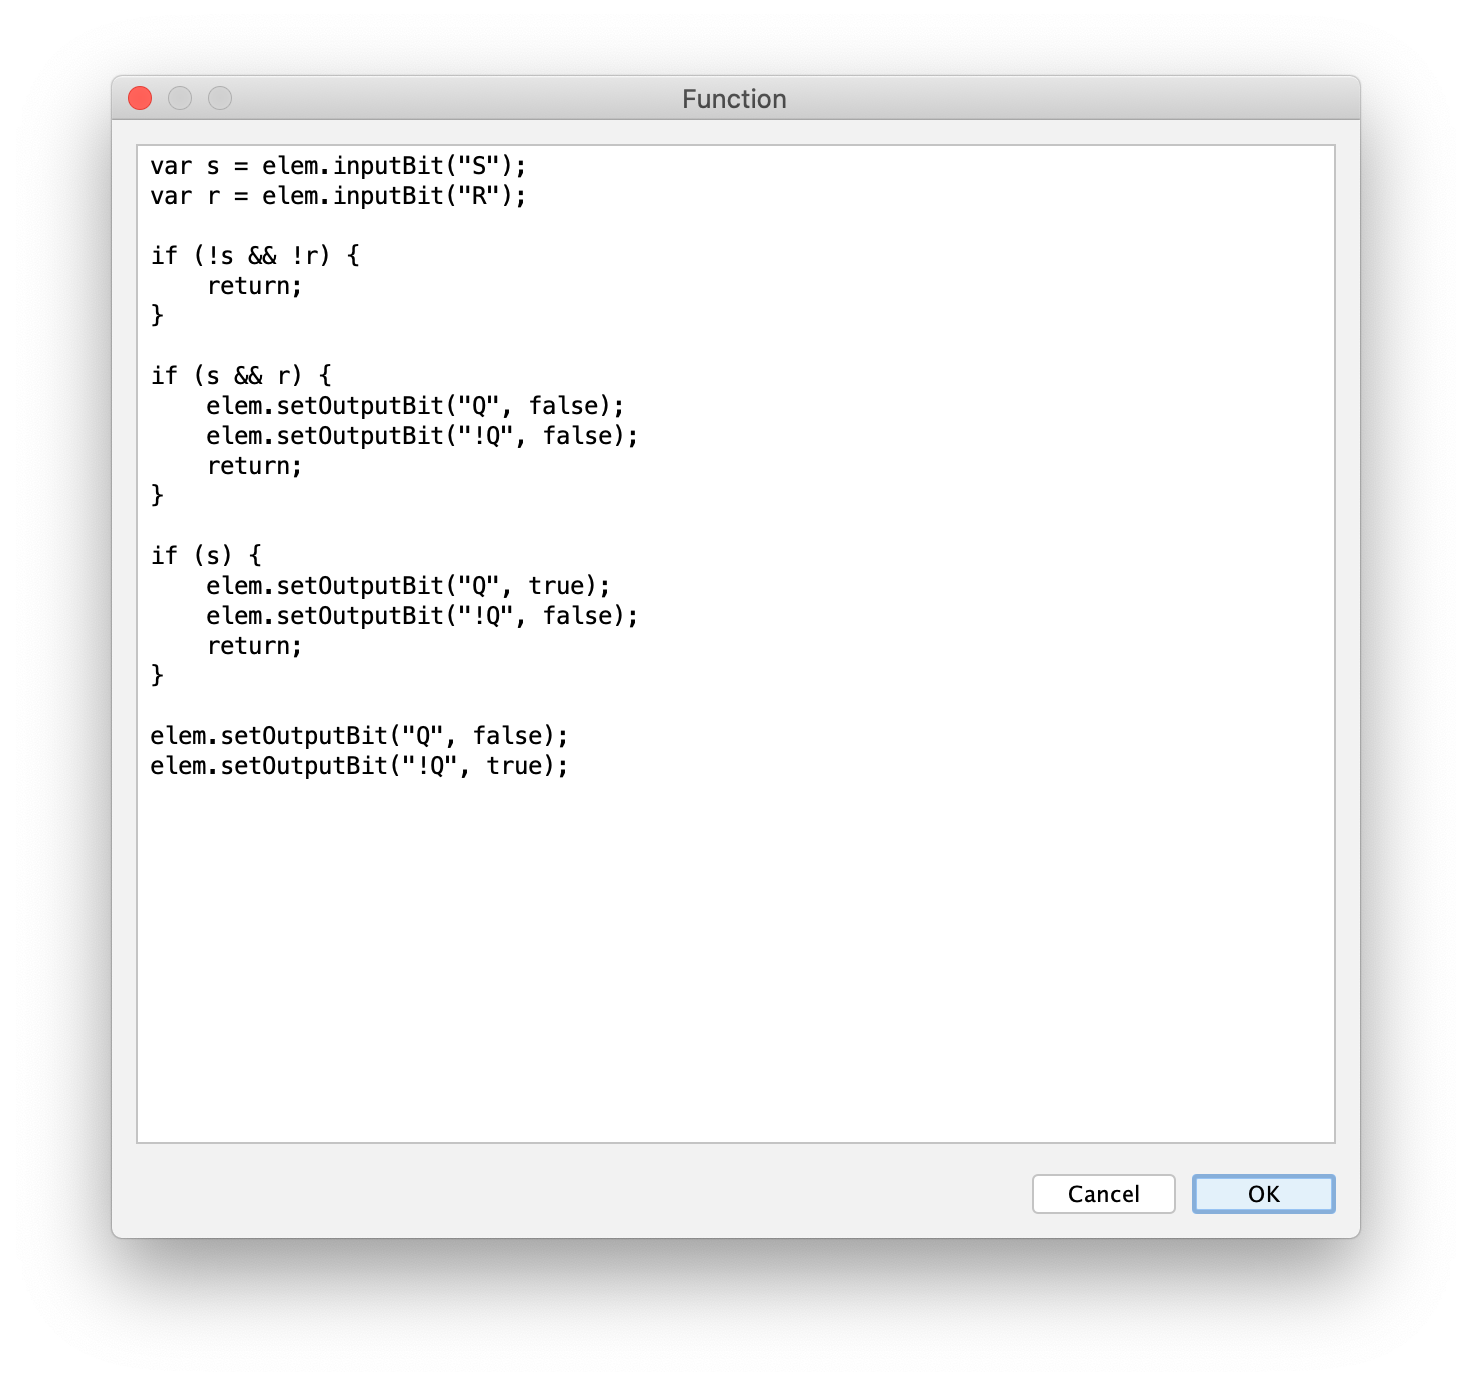
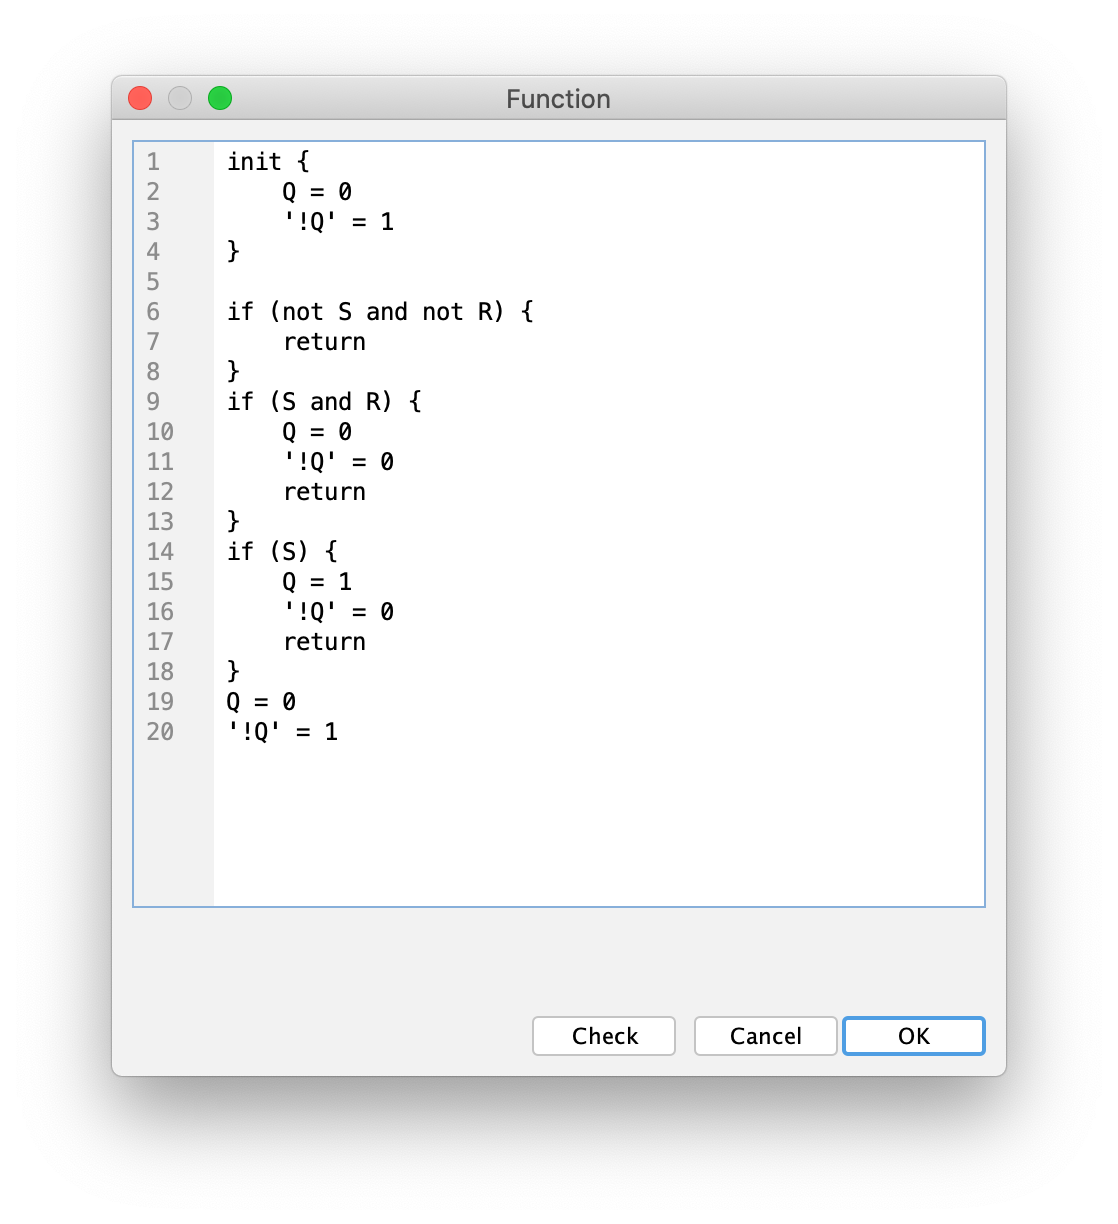
larger fonts for SEO on mobile

Changed region(s): [[0.0608, 0.0621, 0.9428, 0.9314], [0.2737, 0.5899, 0.3041, 0.6209], [0.2129, 0.5899, 0.2433, 0.6209]]

diff --git a/asciidoc-pygments.css b/asciidoc-pygments.css
@@ -1,43 +1,1 @@
-pre { line-height: 125%; }
-td.linenos .normal { color: inherit; background-color: transparent; padding-left: 5px; padding-right: 5px; }
-span.linenos { color: inherit; background-color: transparent; padding-left: 5px; padding-right: 5px; }
-td.linenos .special { color: #000000; background-color: #ffffc0; padding-left: 5px; padding-right: 5px; }
-span.linenos.special { color: #000000; background-color: #ffffc0; padding-left: 5px; padding-right: 5px; }
-pre.pygments .hll { background-color: #ffffcc }
-pre.pygments, pre.pygments code { background: #ffffff; }
-pre.pygments .tok-c { color: #008000 } /* Comment */
-pre.pygments .tok-err { border: 1px solid #FF0000 } /* Error */
-pre.pygments .tok-k { color: #0000ff } /* Keyword */
-pre.pygments .tok-ch { color: #008000 } /* Comment.Hashbang */
-pre.pygments .tok-cm { color: #008000 } /* Comment.Multiline */
-pre.pygments .tok-cp { color: #0000ff } /* Comment.Preproc */
-pre.pygments .tok-cpf { color: #008000 } /* Comment.PreprocFile */
-pre.pygments .tok-c1 { color: #008000 } /* Comment.Single */
-pre.pygments .tok-cs { color: #008000 } /* Comment.Special */
-pre.pygments .tok-ge { font-style: italic } /* Generic.Emph */
-pre.pygments .tok-gh { font-weight: bold } /* Generic.Heading */
-pre.pygments .tok-gp { font-weight: bold } /* Generic.Prompt */
-pre.pygments .tok-gs { font-weight: bold } /* Generic.Strong */
-pre.pygments .tok-gu { font-weight: bold } /* Generic.Subheading */
-pre.pygments .tok-kc { color: #0000ff } /* Keyword.Constant */
-pre.pygments .tok-kd { color: #0000ff } /* Keyword.Declaration */
-pre.pygments .tok-kn { color: #0000ff } /* Keyword.Namespace */
-pre.pygments .tok-kp { color: #0000ff } /* Keyword.Pseudo */
-pre.pygments .tok-kr { color: #0000ff } /* Keyword.Reserved */
-pre.pygments .tok-kt { color: #2b91af } /* Keyword.Type */
-pre.pygments .tok-s { color: #a31515 } /* Literal.String */
-pre.pygments .tok-nc { color: #2b91af } /* Name.Class */
-pre.pygments .tok-ow { color: #0000ff } /* Operator.Word */
-pre.pygments .tok-sa { color: #a31515 } /* Literal.String.Affix */
-pre.pygments .tok-sb { color: #a31515 } /* Literal.String.Backtick */
-pre.pygments .tok-sc { color: #a31515 } /* Literal.String.Char */
-pre.pygments .tok-dl { color: #a31515 } /* Literal.String.Delimiter */
-pre.pygments .tok-sd { color: #a31515 } /* Literal.String.Doc */
-pre.pygments .tok-s2 { color: #a31515 } /* Literal.String.Double */
-pre.pygments .tok-se { color: #a31515 } /* Literal.String.Escape */
-pre.pygments .tok-sh { color: #a31515 } /* Literal.String.Heredoc */
-pre.pygments .tok-si { color: #a31515 } /* Literal.String.Interpol */
-pre.pygments .tok-sx { color: #a31515 } /* Literal.String.Other */
-pre.pygments .tok-sr { color: #a31515 } /* Literal.String.Regex */
-pre.pygments .tok-s1 { color: #a31515 } /* Literal.String.Single */
-pre.pygments .tok-ss { color: #a31515 } /* Literal.String.Symbol */
+/* Pygments CSS disabled because Pygments is not available. */

diff --git a/assets/css/main.scss b/assets/css/main.scss
@@ -1,0 +1,18 @@
+---
+# Only the main Sass file needs front matter (the dashes are enough)
+---
+
+@charset "utf-8";
+
+/* type scale */
+$type-size-1 : 3.051em;  // ~39.056px
+$type-size-2 : 2.441em;  // ~31.248px
+$type-size-3 : 1.953em;  // ~25.008px
+$type-size-4 : 1.562em;   // ~20px
+$type-size-5 : 1.25em;      // ~16px
+$type-size-6 : 0.937em;   // ~12px
+$type-size-7 : 0.859em; // ~11px
+$type-size-8 : 0.781em;  // ~10px
+
+@import "minimal-mistakes/skins/{{ site.minimal_mistakes_skin | default: 'default' }}"; // skin
+@import "minimal-mistakes"; // main partials

diff --git a/_docs/design.md b/_docs/design.md
@@ -86,7 +86,7 @@ Open subcircuits in additional views.
 ### Scripting
 
 Use scripts to customize various parts of Antares' functionality and the
-behaviour of your circuits. Scripts are currently written as JavaScript;
-in the future, a custom DSL (Domain Specific Language) will be used.
+behaviour of your circuits. Scripts are written in a custom DSL (Domain Specific Language) that has been specially designed for dealing with
+digital circuits.
 
 <img src="/assets/images/design/scripting.png" width="600">
